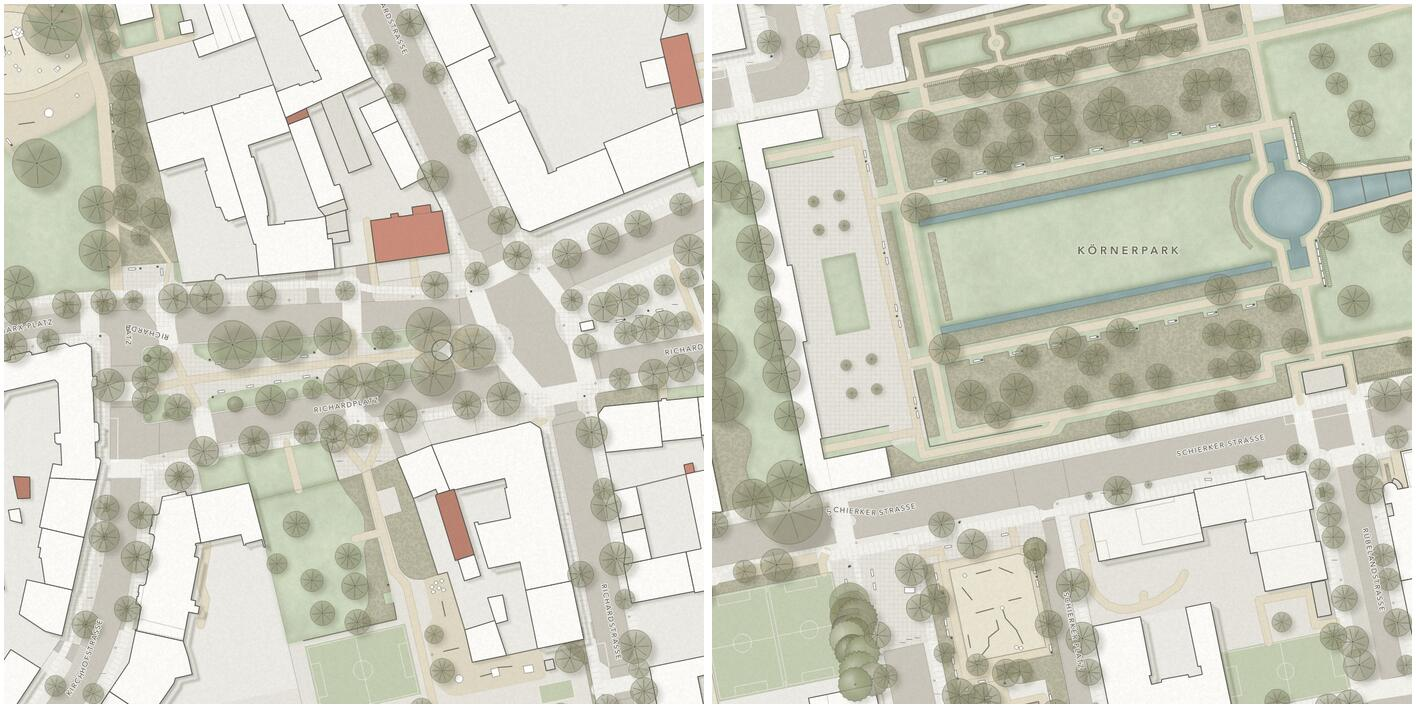
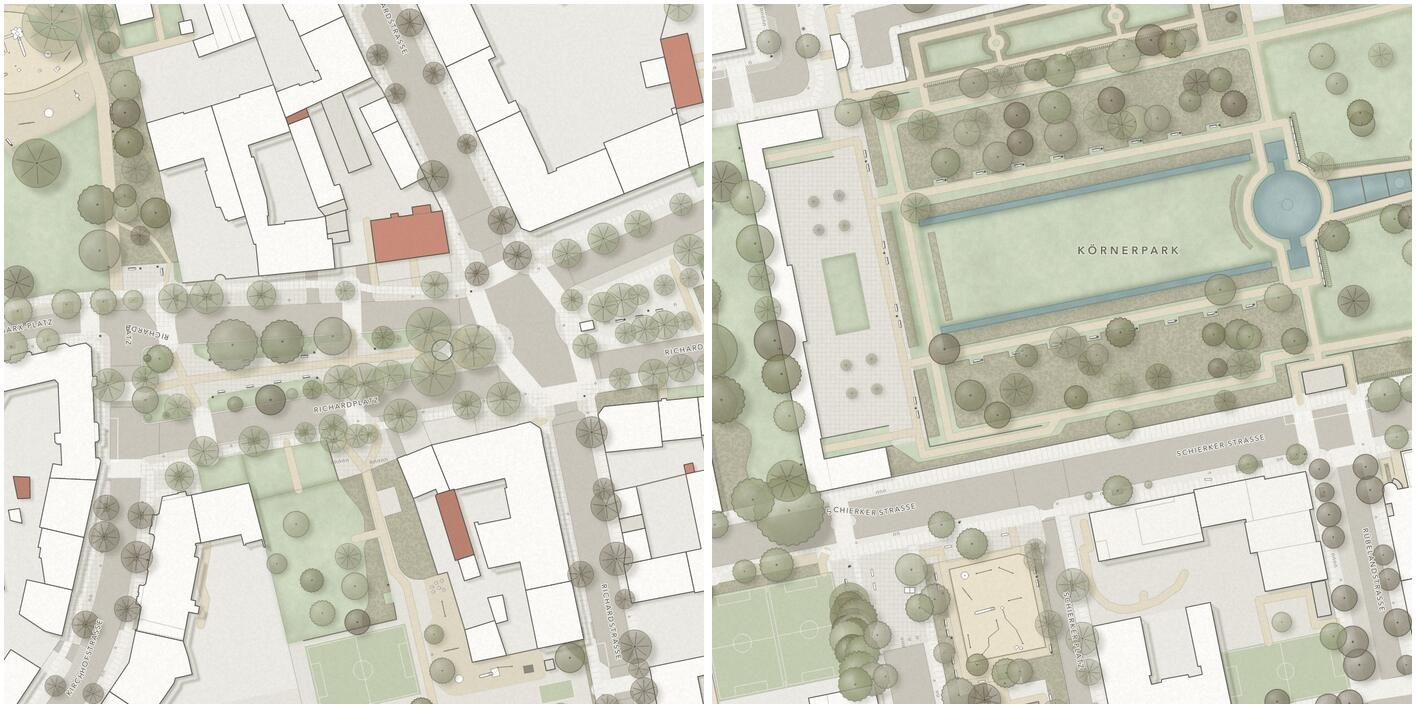
LA: roof:colour/building:colour support (needs re-import), README table and current images
- osm_import.lua imports roof:colour and building:colour on the next import
- style_la maps them to muted plan tones when the columns exist; older DBs render unchanged
- README: implemented table covers bridges, genus trees, street rows, play, furniture, water names, parked cars (not available)

diff --git a/rust/srk-render/src/style_la.rs b/rust/srk-render/src/style_la.rs
@@ -268,17 +268,22 @@ pub fn render(client: &mut Client, prep: &mut PreparedCache, extent: RenderExten
     }
 
     // ---- buildings: hard SE shadow, white volume, crisp outline, rare red roof
+    // `sub` = building:part | mapped roof colour (empty when not tagged or not imported)
+    let roof_sql = extra::roof_colour_sql(ctx.client);
     let buildings = ctx.polygons(
-        r#"osm_id AS id, COALESCE(building, 'yes') AS class, "building:part" AS sub,
-           COALESCE(height, "building:levels" * 3.0, 9)::float8 AS num"#,
+        &format!(
+            r#"osm_id AS id, COALESCE(building, 'yes') AS class, COALESCE("building:part", '') || '|' || {roof_sql} AS sub,
+               COALESCE(height, "building:levels" * 3.0, 9)::float8 AS num"#
+        ),
         "building",
         "ORDER BY COALESCE(height, 0), osm_id",
     )?;
+    let is_part = |f: &Feature<Polygon<f64>>| !f.sub.starts_with('|');
     let sh = ctx.m(2.2);
     {
         let mut layer = new_layer(&ctx);
         let mut pb = PathBuilder::new();
-        for f in buildings.iter().filter(|f| f.sub.is_empty()) {
+        for f in buildings.iter().filter(|f| !is_part(f)) {
             let off = sh * (f.num as f32 / 15.0).clamp(0.4, 1.6);
             for k in [0.33f32, 0.66, 1.0] {
                 if let Some(p) = poly_path_shifted(&ctx, &f.geom, off * k, off * k * 0.75) {
@@ -292,7 +297,7 @@ pub fn render(client: &mut Client, prep: &mut PreparedCache, extent: RenderExten
         blur_layer(&mut layer, (ctx.m(0.35).max(1.0)) as usize);
         draw_layer(&mut pm, &layer, 0.34, BlendMode::Multiply);
     }
-    for f in buildings.iter().filter(|f| f.sub.is_empty()) {
+    for f in buildings.iter().filter(|f| !is_part(f)) {
         let Some(path) = poly_path(&ctx, &f.geom) else { continue };
         let r = rand01(f.id, 3);
         let landmark = matches!(f.class.as_str(), "church" | "chapel" | "cathedral" | "public" | "civic" | "school");
@@ -301,7 +306,10 @@ pub fn render(client: &mut Client, prep: &mut PreparedCache, extent: RenderExten
         let home = matches!(f.class.as_str(), "house" | "detached" | "semidetached_house" | "terrace" | "residential" | "chalet" | "allotment_house" | "bungalow");
         // red roofs: an accent on small homes only (unknown `building=yes` only when tiny)
         let red = !landmark && ((home && area < 250.0) || (f.class == "yes" && area < 120.0)) && r < 0.25;
-        let col = if landmark {
+        let mapped = f.sub.split_once('|').and_then(|(_, c)| extra::roof_tone(c));
+        let col = if let Some(m) = mapped {
+            m
+        } else if landmark {
             "#F5F4EF"
         } else if outbuilding {
             "#DEDBD3"
@@ -313,7 +321,7 @@ pub fn render(client: &mut Client, prep: &mut PreparedCache, extent: RenderExten
         fill(&mut pm, &path, &paint(hex(col)), None);
         line(&mut pm, &path, &paint(hex(BUILDING_LINE)), &stroke(ctx.m(0.22).clamp(0.7, 1.6)), None);
     }
-    for f in buildings.iter().filter(|f| !f.sub.is_empty()) {
+    for f in buildings.iter().filter(|f| is_part(f)) {
         if let Some(path) = poly_path(&ctx, &f.geom) {
             line(&mut pm, &path, &paint(with_alpha(hex(BUILDING_LINE), 0.35)), &stroke(ctx.m(0.08).clamp(0.4, 0.8)), None);
         }

diff --git a/rust/srk-render/src/style_la_extra.rs b/rust/srk-render/src/style_la_extra.rs
@@ -224,6 +224,62 @@ pub fn draw_genus_crown(pm: &mut Pixmap, c: &Crown, k: f32) {
 }
 
 // ---------------------------------------------------------------------------------------------
+// roof colours
+
+/// SQL expression for the mapped roof colour (`roof:colour`, else `building:colour`), or NULL
+/// when the import predates these columns (they were added to `osm_import.lua` on 2026-10-16;
+/// older databases need a re-import to use them).
+pub fn roof_colour_sql(client: &mut postgres::Client) -> &'static str {
+    static HAS: std::sync::OnceLock<bool> = std::sync::OnceLock::new();
+    let has = *HAS.get_or_init(|| {
+        client
+            .query_one(
+                "SELECT count(*) FROM information_schema.columns WHERE table_name = 'building' AND column_name IN ('roof:colour', 'building:colour')",
+                &[],
+            )
+            .map(|r| r.get::<_, i64>(0) == 2)
+            .unwrap_or(false)
+    });
+    if has { r#"COALESCE("roof:colour", "building:colour", '')"# } else { "''::text" }
+}
+
+/// Mapped roof colour → muted plan tone. Reds/browns become the terracotta accent, greys stay
+/// light, green roofs become a pale sage; anything else (or unparsable) → `None` (default rules).
+pub fn roof_tone(tag: &str) -> Option<&'static str> {
+    let t = tag.trim().to_ascii_lowercase();
+    let named = match t.as_str() {
+        "red" | "darkred" | "brown" | "maroon" | "orange" | "terracotta" | "brick" | "sienna" | "firebrick" | "chocolate" => Some("#C98C7A"),
+        "darkbrown" | "saddlebrown" => Some("#B98270"),
+        "grey" | "gray" | "silver" | "lightgrey" | "lightgray" | "gainsboro" => Some("#E2DFD8"),
+        "darkgrey" | "darkgray" | "dimgray" | "dimgrey" | "slategray" | "black" | "anthracite" => Some("#CFCCC5"),
+        "green" | "darkgreen" | "olive" | "olivedrab" => Some("#C3CBB0"),
+        "white" | "beige" | "ivory" => Some("#FBFAF7"),
+        _ => None,
+    };
+    if named.is_some() {
+        return named;
+    }
+    // #rrggbb: classify by hue and lightness
+    let h = t.strip_prefix('#')?;
+    if h.len() != 6 {
+        return None;
+    }
+    let v = u32::from_str_radix(h, 16).ok()?;
+    let (r, g, b) = (((v >> 16) & 255) as f32, ((v >> 8) & 255) as f32, (v & 255) as f32);
+    let (mx, mn) = (r.max(g).max(b), r.min(g).min(b));
+    let l = (mx + mn) / 510.0;
+    Some(if mx - mn < 30.0 {
+        if l > 0.75 { "#FBFAF7" } else if l > 0.45 { "#E2DFD8" } else { "#CFCCC5" }
+    } else if r >= g && r >= b {
+        if l > 0.45 { "#C98C7A" } else { "#B98270" }
+    } else if g >= r && g >= b {
+        "#C3CBB0"
+    } else {
+        "#E2DFD8"
+    })
+}
+
+// ---------------------------------------------------------------------------------------------
 // bridges
 
 /// White deck with a crisp edge and a soft shadow onto whatever lies below (water, rails, roads).

diff --git a/docs/design-research/01-landscape-architecture/README.md b/docs/design-research/01-landscape-architecture/README.md
@@ -22,7 +22,7 @@ What this means in one sentence per element:
 
 ![Richardplatz and Körnerpark](current-ef.jpg)
 
-More: [`showcase-z17.jpg`](showcase-z17.jpg) / [`showcase-z18.jpg`](showcase-z18.jpg) (whole Schillerkiez), [`map-sheet-schillerkiez.jpg`](map-sheet-schillerkiez.jpg) (as a plan sheet with title block, north arrow and scale bar), iterations in [`steps/`](steps/).
+Tree legend: [`steps/20-legend-water-names/legend.jpg`](steps/20-legend-water-names/legend.jpg) (regenerate with `docs/design-research/tools/la_tree_legend.sh out.png`). More: [`showcase-z17.jpg`](showcase-z17.jpg) / [`showcase-z18.jpg`](showcase-z18.jpg) (whole Schillerkiez), [`map-sheet-schillerkiez.jpg`](map-sheet-schillerkiez.jpg) (as a plan sheet with title block, north arrow and scale bar), iterations in [`steps/`](steps/).
 
 | Element | Implementation |
 | --- | --- |
@@ -32,12 +32,15 @@ More: [`showcase-z17.jpg`](showcase-z17.jpg) / [`showcase-z18.jpg`](showcase-z18
 | Water | `#A9BEBD`, blurred darker band along the banks (watercolour depth), crisp bank line |
 | Woodland | crowns on a world grid + mapped trees inside woods, drawn opaque into one layer and composited at 80 % → even canopy |
 | Streets | carriageway `#C9C5BA` with kerb line, sidewalks `#F1F0EB` with joint ticks (z19+), pedestrian areas with a joint grid (z19+), cycleways `#D3A796`, parking bays with white lines, road markings pulled towards grey |
-| Buildings | white `#FBFAF7`, crisp `#4E4D46` outline, blurred SE shadow scaled by height, `building:part` as faint lines; outbuildings light grey; red (`#C98C7A`/`#B98270`) only on ~¼ of small homes |
-| Trees | one symbol per genus: shaded disc + ring + centre dot, radial branches, scalloped; star for conifers. Translucent, NW-lit radial gradient, blurred SE shadow, size from `diameter_crown` |
+| Buildings | white `#FBFAF7`, crisp `#4E4D46` outline, blurred SE shadow scaled by height, `building:part` as faint lines; outbuildings light grey; red (`#C98C7A`/`#B98270`) only on ~¼ of small homes. Mapped `roof:colour` / `building:colour` (named or `#rrggbb`) → muted plan tone (terracotta, light/mid grey, sage for green roofs) — **needs a re-import**: both keys were added to `data/lua/osm_import.lua` on 2026-10-16; on older databases the renderer detects the missing columns and keeps the rules above |
+| Trees | **per genus** (step 19/20, [legend](steps/20-legend-water-names/legend.jpg)): Tilia fine-scalloped dome, Acer lobes + veins, Betula airy stipple, Quercus cloud of sub-crowns, Platanus large disc + ring, blossom trees ring of white dots, Salix fringe, Carpinus/Fagus double scallop, Robinia/Fraxinus radial, conifers star; fixed tone and default crown size per genus when `diameter_crown` is missing. Only ~500 of 11 500 trees carry `genus`. **Street trees** without genus: one symbol and tone per street (nearest named road), so rows read as rows. Park trees: generic symbols by id. Translucent, NW-lit radial gradient, blurred SE shadow |
 | Pitches | procedural white line markings from `pitch_markings` |
 | Railways | gravel bed, two rails, sleepers from z18; below streets/bridges |
-| Details | hedges, walls, fences, embankment combs, benches, bins, lamps, bicycle stands, play equipment |
-| Labels | street names (Avenir Next Medium, spaced caps, z17+), area names (Avenir Next Demi Bold, spaced caps) |
+| Bridges | `bridge` polygons: soft SE shadow (grows with `layer`) onto rails, water and roads below, light deck, crisp parapet outline over the street surface; street areas drawn ground level → bridge → raised |
+| Details | hedges, walls, fences, embankment combs. Benches with backrest line (side opposite `direction`), picnic tables, table tennis with net, bins, lamps; bicycle stands as a row of U-shapes (count from `capacity`) across the nearest street; drinking water, street pumps and fountains as water circles, fountain basins with a double rim |
+| Play | sandpits with timber edge, water basins/channels, slides (white chute, ladder rungs), swing frames with seats, seesaws, springers, rotators, white structures with outline (plan cross on playhouses/platforms) |
+| Labels | street names (Avenir Next Medium, spaced caps, z17+), area names (Avenir Next Demi Bold, spaced caps), water names (Avenir Next italic, bank colour, z17+) |
+| Not available | parked cars: the QGIS layer reads `data/parking/street_parking_points_processed.geojson`, which is not generated in this checkout and has no table in PostGIS — skipped |
 
 Variant: `SRK_LA_PALETTE=vivid` — saturated greens of modern competition plans for lawns, beds and crowns (see [step 11](steps/11-vivid-palette-variant/)).
 
